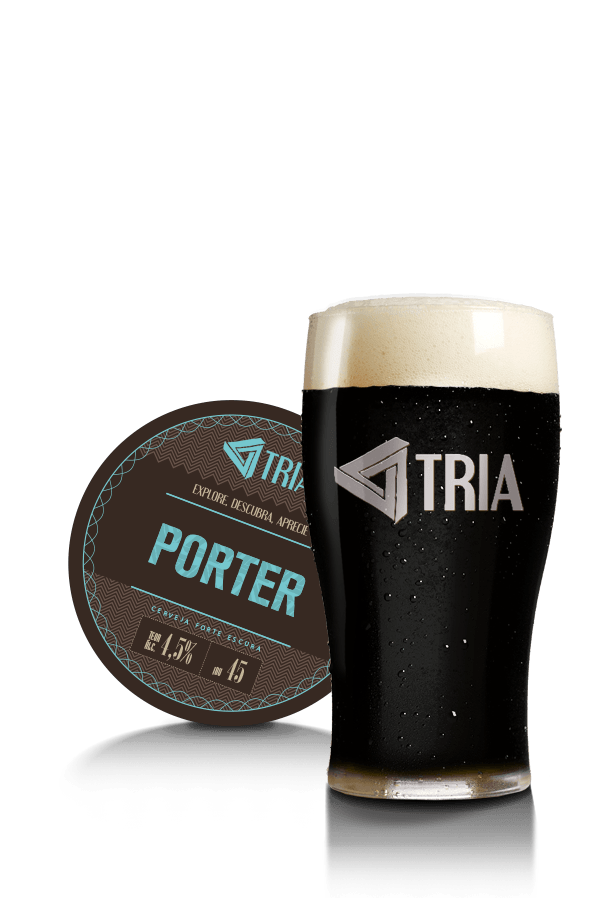
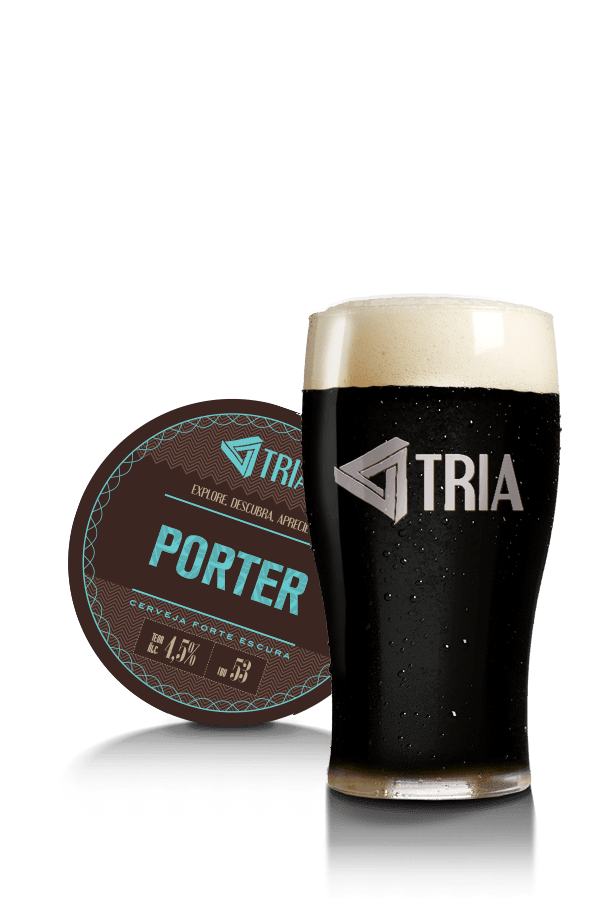
More changes.

Changed region(s): [[0.12, 0.4356, 0.57, 0.8089]]

diff --git a/index.html b/index.html
@@ -145,7 +145,7 @@
                                         </p>
                                         <div class="info">
                                             <div class="info-alc">Teor Alc.<br/><span>6,0%</span></div>
-                                            <div class="info-ibu">Ibu<br/><span>45</span></div>
+                                            <div class="info-ibu">Ibu<br/><span>56</span></div>
                                             <div class="clearfix"></div>
                                         </div>
                                     </div>
@@ -431,7 +431,7 @@
                 </div>
             </section>
             <!------------BREWERY-PARALLAX------------>
-            <section id="xbrewery"></section>
+            <section id="brewery"></section>
             <!------------LOCATION------------>
             <section id="location" class="full">
                 <div id="google-map"></div>
@@ -482,7 +482,7 @@
         </div>
 
         <!-- Microdata //-->
-        <div itemscope itemtype="http://schema.org/Brewery" style="display: none;">
+        <div itemscope itemtype="http://schema.org/Brewery" style="position: absolute; width: 1px; height: 1px; overflow: hidden;">
            <span itemprop="name">Cervejaria TRIA</span>
            <span itemprop="description">A TRIA é uma cervejaria artesanal autenticamente paulistana, situada no bairro de Moema, São Paulo, em um espaço dedicado dentro do bar e restaurante Mundo Cervejeiro.
            Comandada pelo Mestre Cervejeiro Frank Skwirut, a TRIA resgata a arte no artesanal, através do perfeccionismo na técnica e da riqueza dos ingredientes selecionados.</span>
@@ -500,8 +500,8 @@
            <a href="https://www.google.com.br/maps/place/Av.+Miruna,+51+-+Indian%C3%B3polis,+S%C3%A3o+Paulo+-+SP/@-23.6113202,-46.6657037,17z/data=!3m1!4b1!4m2!3m1!1s0x94ce5a095528b5cf:0x6ef80c2a0345f5bd" itemprop="maps">URL of Map</a> 
 
            <div itemprop="aggregateRating" itemscope itemtype="http://schema.org/AggregateRating">
-             <span itemprop="ratingValue">5</span> 
-             <span itemprop="reviewCount">155</span>
+             <span itemprop="ratingValue">4.5</span> 
+             <span itemprop="ratingCount">95</span>
            </div>
 
            <span itemprop="servesCuisine">Brasileira</span>
@@ -526,6 +526,7 @@
           })(window,document,'script','//www.google-analytics.com/analytics.js','ga');
 
           ga('create', 'UA-41302257-2', 'auto');
+          ga('require', 'displayfeatures');
           ga('send', 'pageview');
 
         </script>

diff --git a/js/app.js b/js/app.js
@@ -155,7 +155,7 @@ function resize_bg() {
         }
     });
 
-    $( '#brewery' ).css( 'height' , doc_height / 3 );
+    $( '#brewery' ).css( 'height' , doc_height / 2 );
 
     $( '#locator' ).css( 'margin-top' , ($( '#locator').height() /2   ) *-1   );
 
